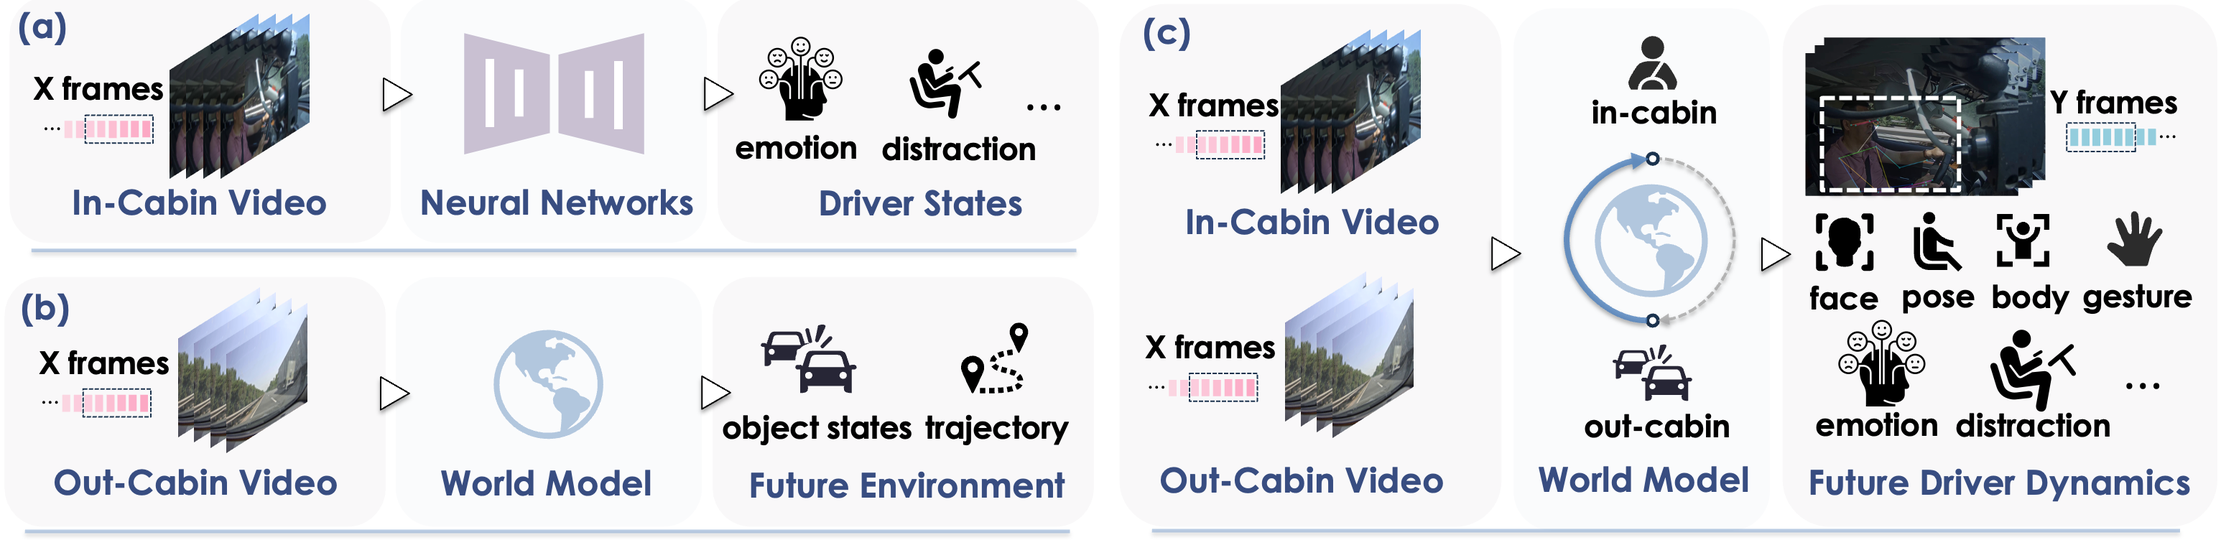
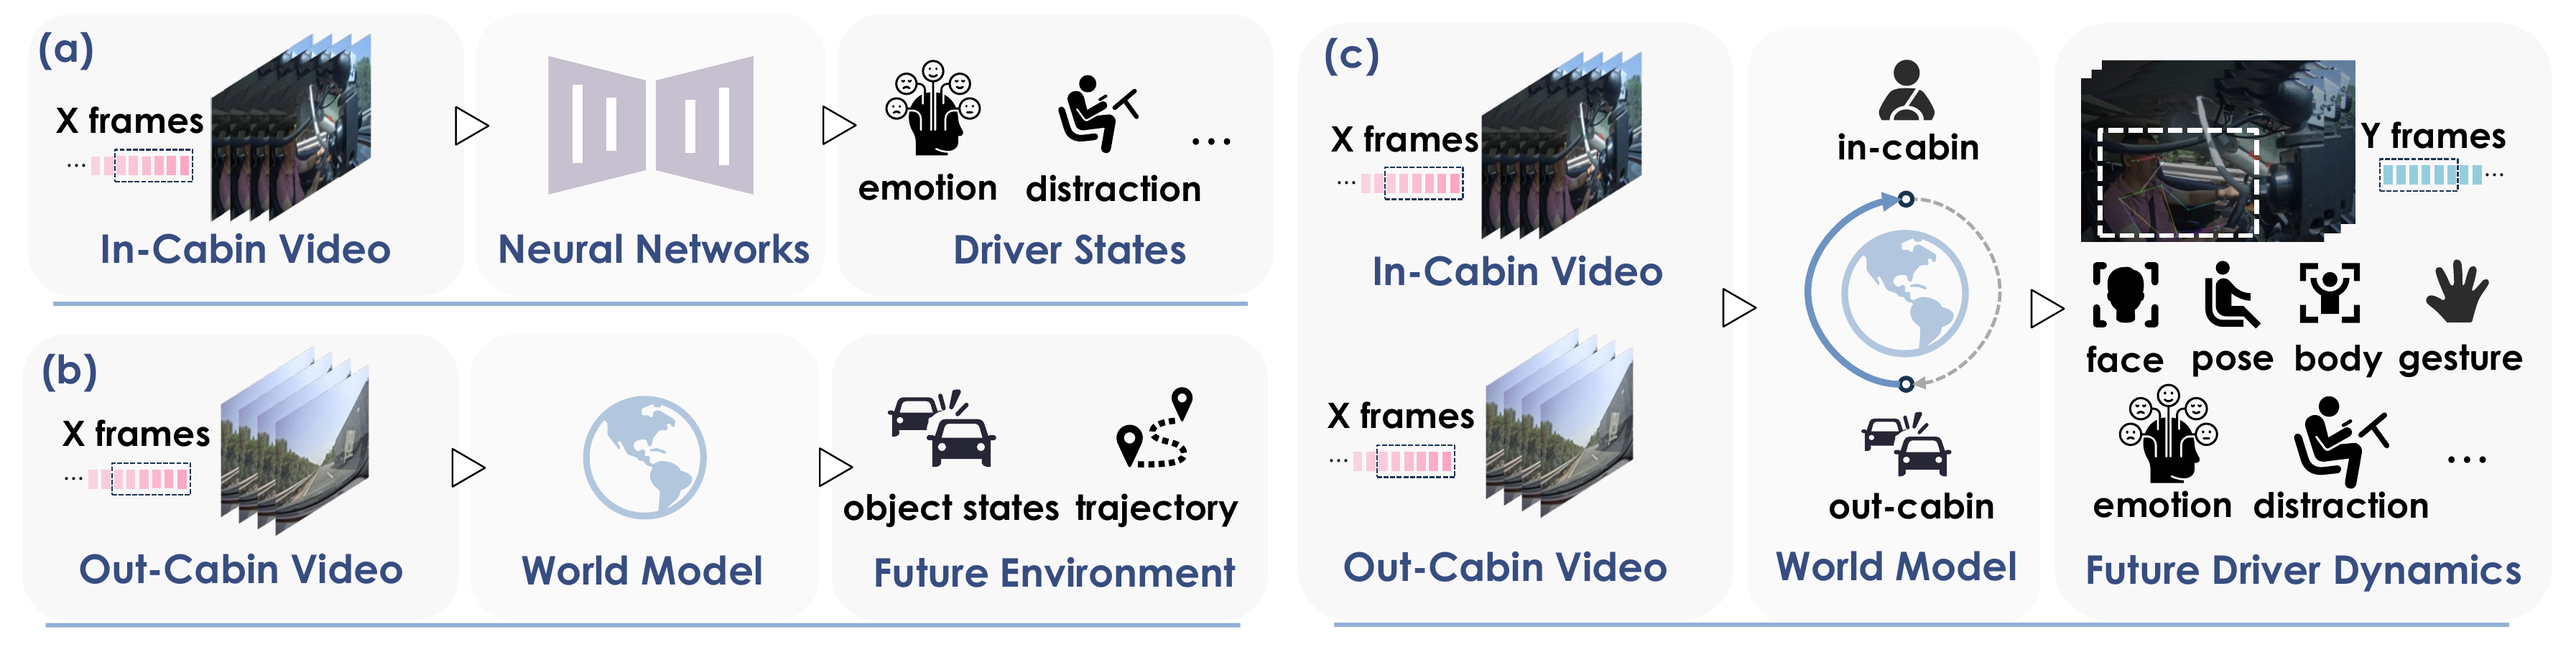
backup;

diff --git a/driver-wm/index.html b/driver-wm/index.html
@@ -174,7 +174,7 @@
     }
 
     .teaser-video {
-      aspect-ratio: 3092 / 752;
+      aspect-ratio: 3586 / 901;
       background: var(--panel);
       object-fit: contain;
     }
@@ -653,7 +653,7 @@
       </div>
 
       <div class="columns is-multiline is-variable is-5" style="margin-top: 1.25rem;">
-        <div class="column is-half">
+        <div class="column is-full-mobile is-half-tablet is-one-third-desktop">
           <div class="figure-card">
             <div class="media-frame">
               <img class="paper-image" src="./static/images/figures/fig3_mechanism_dynamics.png" alt="Controlled interventions and high-motion horizon curve">
@@ -665,7 +665,19 @@
           </div>
         </div>
 
-        <div class="column is-half">
+        <div class="column is-full-mobile is-half-tablet is-one-third-desktop">
+          <div class="figure-card">
+            <div class="media-frame">
+              <img class="paper-image" src="./static/images/figures/supp_renderer_vis_5frames.png" alt="Renderer rollouts under traffic-context interventions">
+            </div>
+            <h3 class="figure-title">Renderer Rollout Under Interventions</h3>
+            <p class="figure-caption">
+              Five-step visual rollouts compare ground truth, Driver-WM, and controlled interventions that remove external context or disable cross-attention injection, showing how traffic-conditioned cues shape in-cabin dynamics.
+            </p>
+          </div>
+        </div>
+
+        <div class="column is-full-mobile is-half-tablet is-one-third-desktop">
           <div class="figure-card">
             <div class="media-frame">
               <img class="paper-image" src="./static/images/figures/fig4_filmstrip.png" alt="Qualitative filmstrip of factual and intervened rollouts">
